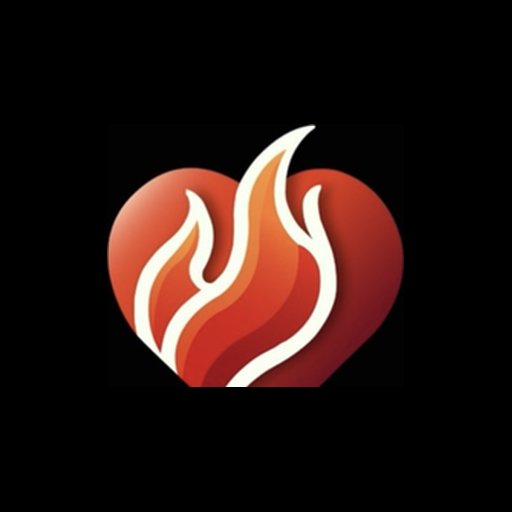
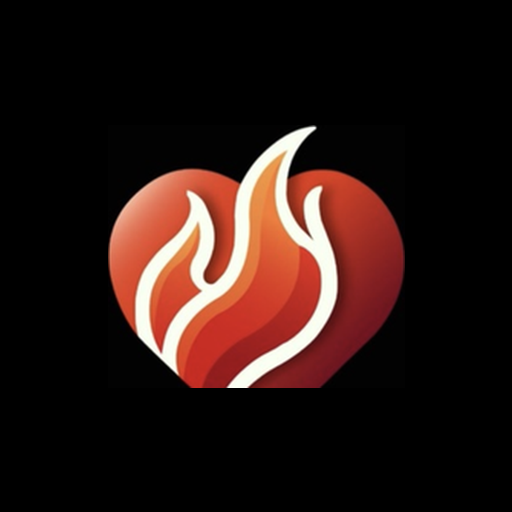
O nome do atalho, a faixa azul e o coracao cortado
O NOME. Eu tinha posto o manifesto, o apple-mobile-web-app-title e a marca de
compatibilidade todos a dizer Santtify, e o iPhone continuou a propor "Oracao
· Letra D — Jesus Alfabeto Saudavel". A fotografia dele deu a resposta: essa
frase e exactamente o <title> que eu compunha. O Safari passa a frente das
tres e usa o titulo do documento.

O <title> passa a ser "Santtify" em todas as paginas publicas. O titulo
descritivo nao se perde: vive no openGraph, que e o que o WhatsApp mostra.

A FAIXA AZUL ficava sempre em TODOS por causa dos dados dele: das 127 faixas
so 16 tem categoria escolhida no painel, e sem categoria eu nao tinha o que
acender. O nome da casa — Explicacao, Musica, Oracao — e o que ele le na lista
e e o mesmo nome das categorias que ele criou. Passa a servir de segunda fonte.

O CORACAO ocupava 80 por cento da largura do icone, com 10 por cento de margem
de cada lado, e a mascara arredondada do iOS comia-lhe as pontas. Passa a 68
por cento, e a 58 no icone mascarado do Android, que corta mais.

E "O MEU PERFIL", dentro do perfil de outra pessoa, deixa de ir para a area de
conta e vai para o perfil dele visto de fora, que e o que aquele menu quer
dizer. A area de conta continua na barra de baixo.

diff --git a/apps/web/src/components/CabecalhoDePerfil.tsx b/apps/web/src/components/CabecalhoDePerfil.tsx
@@ -310,13 +310,24 @@ export function CabecalhoDePerfil({
                 edição em página própria: a separação estava certa e eu deixei o
                 caminho antigo a apontar para o meio dela.
 
-                "O meu perfil" continua a ir para `/perfil`, e deve: aí o que se
-                pede é o perfil, não a edição.
+                E "O MEU PERFIL" DEIXOU DE IR PARA `/perfil`, em 02/09.
+
+                Levava à área de conta, com os números, o Editar perfil e o Sair
+                da conta. Ele descreveu o caminho exacto: entrar no perfil de
+                outra pessoa e dali ir ao seu, e encontrar o desenho antigo.
+
+                Medi os dois caminhos e a página é a mesma — o que muda é o que
+                ele espera ver. A partir de DENTRO de um perfil, "o meu perfil"
+                quer dizer o meu perfil como os outros o veem, e não a minha
+                área de conta. Essa continua na barra de baixo, que é onde ele
+                a procura quando a quer.
               */}
               {souOAnfitriao ? (
                 <Link href={`/${projectSlug}/perfil/editar`}>✎ Editar perfil</Link>
               ) : temConta ? (
-                <Link href={`/${projectSlug}/perfil`}>👤 O meu perfil</Link>
+                <Link href={`/${projectSlug}/pessoa/${usuario?.id ?? ''}`}>
+                  👤 O meu perfil
+                </Link>
               ) : (
                 <Link href={`/${projectSlug}/instalar`}>👤 Criar o meu perfil</Link>
               )}

diff --git a/apps/web/src/components/TocadorDeOnda.tsx b/apps/web/src/components/TocadorDeOnda.tsx
@@ -247,7 +247,26 @@ export function TocadorDeOnda({
             definirTocando(true)
             /* Diz à página inteira o que está a tocar. É o que faz a faixa azul
                acompanhar quando o áudio avança sozinho para a faixa seguinte. */
-            definirCategoriaATocar(bloco.categoriaNome ?? categoria ?? null)
+            /*
+              A CATEGORIA, E SE NÃO HOUVER, O NOME DA CASA.
+
+              Ele testou e a faixa azul ficava sempre em TODOS. A razão está nos
+              dados dele: das 127 faixas, só 16 têm categoria escolhida no
+              painel. Sem categoria eu não tinha o que acender e caía em TODOS.
+
+              O nome da casa — Explicação, Música, Oração — é o que ele lê na
+              lista e é o mesmo nome das categorias que ele criou. Serve de
+              segunda fonte quando a primeira está vazia, e o resultado é o que
+              ele descreveu: toca a oração, ORAÇÃO fica azul.
+
+              Continua a valer a pena escolher a categoria no painel, e é o que
+              lhe vou dizer: aí a faixa acende mesmo quando o nome da casa e o
+              da categoria são diferentes, como em "Repetição do versículo", que
+              é da categoria Memorização.
+            */
+            definirCategoriaATocar(
+              bloco.categoriaNome ?? bloco.label ?? categoria ?? null,
+            )
             void rastrear({
               projectId,
               contentId,

diff --git a/apps/web/src/app/[projectSlug]/page.tsx b/apps/web/src/app/[projectSlug]/page.tsx
@@ -83,7 +83,19 @@ export async function generateMetadata({
         undefined
       const arte = bloco.arte ?? pagina!.content.coverUrl ?? undefined
       return {
-        title: `${titulo} — ${dados.project.name}`,
+    /*
+      O TÍTULO DA PÁGINA É "Santtify", E A RAZÃO É A INSTALAÇÃO.
+
+      O iPhone preenche o nome do atalho com o `<title>` do documento. Ele
+      instalou estando numa publicação partilhada e o iPhone propôs "Oração ·
+      Letra D — Jesus Alfabeto Saudável", que é exactamente o título que eu
+      compunha aqui. O `apple-mobile-web-app-title` e o manifesto já diziam
+      Santtify e o Safari passou à frente dos dois.
+
+      O título descritivo não se perde: vive no `openGraph`, que é o que o
+      WhatsApp mostra no cartão da mensagem. O `<title>` é o nome da aplicação.
+    */
+        title: 'Santtify',
         description: texto,
         openGraph: {
           title: titulo,
@@ -110,7 +122,7 @@ export async function generateMetadata({
   const descricao = dados.project.description ?? undefined
 
   return {
-    title: dados.project.name,
+    title: 'Santtify',
     description: descricao,
     openGraph: {
       title: dados.project.name,

diff --git a/apps/web/src/app/[projectSlug]/produto-vivo/page.tsx b/apps/web/src/app/[projectSlug]/produto-vivo/page.tsx
@@ -50,12 +50,12 @@ export async function generateMetadata({
   const pv = await api.conteudo(projectSlug, 'produto-vivo').catch(() => null)
   const arte = pv?.content.blocks.find((b) => b.arte)?.arte ?? pv?.content.coverUrl ?? undefined
 
-  const titulo = 'Produto Vivo — a tecnologia por trás desta plataforma'
   const descricao =
     'O Produto Vivo transforma qualquer site ou aplicativo em uma mini rede social comercial.'
 
   return {
-    title: titulo,
+    // Ver a nota em [projectSlug]/page.tsx: o `<title>` é o nome da aplicação.
+    title: 'Santtify',
     description: descricao,
     openGraph: {
       title: 'Produto Vivo',

diff --git a/apps/web/src/app/[projectSlug]/instalar/page.tsx b/apps/web/src/app/[projectSlug]/instalar/page.tsx
@@ -6,7 +6,8 @@ import { FormularioDeAuth } from '@/components/FormularioDeAuth'
 import { FolhaDeInstalacao } from '@/components/FolhaDeInstalacao'
 import { DecoracaoPastel } from '@/components/DecoracaoPastel'
 
-export const metadata = { title: 'Bem-vindo à Santtify' }
+// O `<title>` é o nome da aplicação: o iPhone usa-o ao instalar.
+export const metadata = { title: 'Santtify' }
 
 /**
  * A tela de entrada com a folha de instalação por cima — o desenho de 22/08.

diff --git a/apps/web/src/app/[projectSlug]/perfil/page.tsx b/apps/web/src/app/[projectSlug]/perfil/page.tsx
@@ -10,7 +10,8 @@ import { BarraInferior } from '@/components/BarraInferior'
 import { BannerDeConsentimento } from '@/components/BannerDeConsentimento'
 import { AvisoDeIdentidade } from '@/components/AvisoDeIdentidade'
 
-export const metadata = { title: 'Meu perfil' }
+// O `<title>` é o nome da aplicação: o iPhone usa-o ao instalar.
+export const metadata = { title: 'Santtify' }
 
 /**
  * O perfil de quem entrou — com a MESMA estrutura da página inicial.

diff --git a/apps/web/src/app/[projectSlug]/playlist/page.tsx b/apps/web/src/app/[projectSlug]/playlist/page.tsx
@@ -6,7 +6,8 @@ import { RastreadorDeVisita } from '@/components/RastreadorDeVisita'
 import { BannerDeConsentimento } from '@/components/BannerDeConsentimento'
 import { BarraInferior } from '@/components/BarraInferior'
 
-export const metadata = { title: 'Minha Playlist' }
+// O `<title>` é o nome da aplicação: o iPhone usa-o ao instalar.
+export const metadata = { title: 'Santtify' }
 
 export default async function PaginaPlaylist({
   params,

diff --git a/apps/web/src/app/layout.tsx b/apps/web/src/app/layout.tsx
@@ -5,7 +5,7 @@ import { ProvedorDeAuth } from '@/components/ProvedorDeAuth'
 import { UmSomDeCadaVez } from '@/components/UmSomDeCadaVez'
 
 export const metadata: Metadata = {
-  title: 'Jesus Alfabeto Saudável',
+  title: 'Santtify',
   description: 'Aprenda o alfabeto com música, áudio e conteúdo educativo.',
   manifest: '/manifest.json',
   // Sem esta declaração o navegador vai sozinho procurar /favicon.ico, não

diff --git a/apps/web/src/app/[projectSlug]/recuperar/page.tsx b/apps/web/src/app/[projectSlug]/recuperar/page.tsx
@@ -3,7 +3,8 @@ import { notFound } from 'next/navigation'
 import { api } from '@/lib/api'
 import { PedirReposicao } from '@/components/PedirReposicao'
 
-export const metadata = { title: 'Esqueci minha senha' }
+// O `<title>` é o nome da aplicação: o iPhone usa-o ao instalar.
+export const metadata = { title: 'Santtify' }
 
 /**
  * Recuperação de senha — versão honesta enquanto o envio de e-mail não existe.

diff --git a/apps/web/src/app/[projectSlug]/pessoa/[userId]/page.tsx b/apps/web/src/app/[projectSlug]/pessoa/[userId]/page.tsx
@@ -43,7 +43,8 @@ export async function generateMetadata({
     (arroba ? `${arroba} no ${projeto?.name ?? 'Santtify'}` : undefined)
 
   return {
-    title: `${nome} — ${projeto?.name ?? 'Santtify'}`,
+    // Ver a nota em [projectSlug]/page.tsx: o `<title>` é o nome da aplicação.
+    title: 'Santtify',
     description: descricao,
     openGraph: {
       title: arroba ? `${nome} (${arroba})` : nome,

diff --git a/apps/web/src/app/[projectSlug]/[contentSlug]/page.tsx b/apps/web/src/app/[projectSlug]/[contentSlug]/page.tsx
@@ -48,7 +48,8 @@ export async function generateMetadata({
     dados.content.summary ?? textoProprio ?? dados.project.description ?? undefined
 
   return {
-    title: `${dados.content.title} — ${dados.project.name}`,
+    // Ver a nota em [projectSlug]/page.tsx: o `<title>` é o nome da aplicação.
+    title: 'Santtify',
     description: descricao,
     openGraph: {
       title: dados.content.title,

diff --git a/apps/web/src/app/[projectSlug]/[contentSlug]/cartao/page.tsx b/apps/web/src/app/[projectSlug]/[contentSlug]/cartao/page.tsx
@@ -26,7 +26,8 @@ export async function generateMetadata({
   const imagem = `${process.env.NEXT_PUBLIC_API_URL ?? ''}/projects/${projectSlug}/contents/${contentSlug}/cartao.jpg`
 
   return {
-    title: titulo,
+    // Ver a nota em [projectSlug]/page.tsx: o `<title>` é o nome da aplicação.
+    title: 'Santtify',
     description: descricao,
     openGraph: {
       title: titulo,
